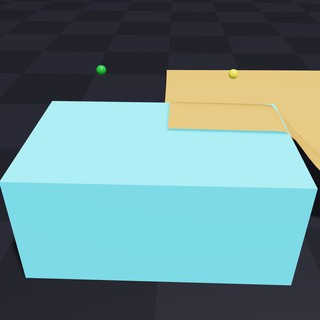
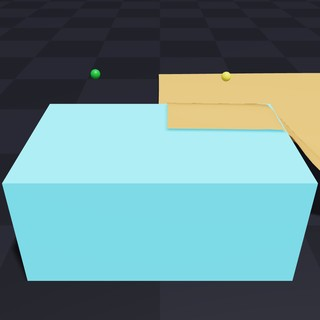
Fix review findings in the WebXR cloth teleop example
Address the bot review findings on the headset path and the test:

- Correct the head camera forward axis: stored head quats map the
  head-local frame to model space with local forward (0, 0, -1), so a
  level head now looks at the scene instead of the sky. Procedural
  head quats use the same convention.
- Request the local-floor reference space (falling back to local), so
  tracked hands sit at table height instead of under the ground.
- Document the secure-context requirement for WebXR and guide
  standalone headsets through adb reverse + localhost instead of a
  plain-http LAN address.
- Run the procedural choreography while no client has connected, so
  the default run matches the documented behavior.
- Frame the scene with the procedural head once instead of overriding
  the camera every frame, leaving orbit controls to the user; replay
  and connected-VR runs keep following the head.
- Strengthen the drag assertion with a touch witness
  (test_post_step) recorded while a hand proxy is within reach of the
  cloth; a hands-disabled control run now fails as expected.
- Reject malformed pose values (strings, ragged lists, nulls) instead
  of crashing the simulation on one bad POST.
- Record the targets the simulation actually used so replay
  reproduces the run, defaulting missing entries to sane poses.
- Flush the recording when the run loop exits, not only in test mode
  or every 100 frames.
- Drop the unused pinch detection from the client, protocol, and
[…]

diff --git a/newton/examples/cloth/example_cloth_vr_teleop.py b/newton/examples/cloth/example_cloth_vr_teleop.py
@@ -17,6 +17,10 @@
 # motion (also used in test mode), and the client page offers a mouse-driven
 # fallback. Sessions can be recorded to and replayed from ``.npz`` files.
 #
+# Headset note: WebXR requires a secure context, which a plain http:// LAN
+# address is not. From a standalone headset use adb (e.g.
+# ``adb reverse tcp:8091 tcp:8091``) and open ``http://localhost:8091/``.
+#
 # Command: python -m newton.examples cloth_vr_teleop [--vr-port 8091]
 #
 ###########################################################################
@@ -106,8 +110,15 @@ async function startXR() {
     return;
   }
   enterBtn.disabled = true;
-  status("VR session running");
-  const ref = await session.requestReferenceSpace("local");
+  let refSpaceName = "local-floor";
+  let ref;
+  try {
+    ref = await session.requestReferenceSpace(refSpaceName);
+  } catch (err) {
+    refSpaceName = "local";
+    ref = await session.requestReferenceSpace(refSpaceName);
+  }
+  status("VR session running (" + refSpaceName + ")");
   session.addEventListener("end", () => {
     session = null;
     enterBtn.disabled = false;
@@ -134,21 +145,11 @@ function handPose(frame, src, ref) {
   if (src.hand) {
     const wrist = frame.getJointPose(src.hand.get("wrist"), ref);
     if (!wrist) return null;
-    const out = { p: posOf(wrist.transform), q: quatOf(wrist.transform), pinch: false };
-    const tip = frame.getJointPose(src.hand.get("index-fingertip"), ref);
-    const thumb = frame.getJointPose(src.hand.get("thumb-tip"), ref);
-    if (tip && thumb) {
-      const dx = tip.transform.position.x - thumb.transform.position.x;
-      const dy = tip.transform.position.y - thumb.transform.position.y;
-      const dz = tip.transform.position.z - thumb.transform.position.z;
-      out.pinch = Math.sqrt(dx * dx + dy * dy + dz * dz) < 0.025;
-    }
-    return out;
+    return { p: posOf(wrist.transform), q: quatOf(wrist.transform) };
   }
   if (src.gripSpace) {
     const grip = frame.getPose(src.gripSpace, ref);
-    const pressed = src.gamepad && src.gamepad.buttons[0] && src.gamepad.buttons[0].pressed;
-    if (grip) return { p: posOf(grip.transform), q: quatOf(grip.transform), pinch: !!pressed };
+    if (grip) return { p: posOf(grip.transform), q: quatOf(grip.transform) };
   }
   return null;
 }
@@ -193,7 +194,7 @@ function drawPad() {
 setInterval(() => {
   if (session) return;  // in VR, the session loop drives the poses
   msg.head = HEAD_FALLBACK;
-  msg.hands = { right: { p: [handX, handH, -1.5 - handF], q: [0, 0, 0, 1], pinch: false } };
+  msg.hands = { right: { p: [handX, handH, -1.5 - handF], q: [0, 0, 0, 1] } };
   msg.t = performance.now() / 1000;
   post(msg);
   drawPad();
@@ -304,7 +305,10 @@ def _as_pos(entry):
     p = entry.get("p")
     if not isinstance(p, (list, tuple)) or len(p) != 3:
         return None
-    p = np.asarray(p, dtype=np.float32)
+    try:
+        p = np.asarray(p, dtype=np.float32)
+    except (ValueError, TypeError, OverflowError):
+        return None
     if not np.all(np.isfinite(p)) or np.linalg.norm(p) > _MAX_TRACKED_POS:
         return None
     return p
@@ -317,7 +321,10 @@ def _as_quat(entry):
     q = entry.get("q")
     if not isinstance(q, (list, tuple)) or len(q) != 4:
         return identity
-    q = np.asarray(q, dtype=np.float32)
+    try:
+        q = np.asarray(q, dtype=np.float32)
+    except (ValueError, TypeError, OverflowError):
+        return identity
     norm = float(np.linalg.norm(q))
     if not math.isfinite(norm) or norm < 1e-6:
         return identity
@@ -360,7 +367,7 @@ def _frame_from_message(message, origin_yup):
             return None
         p = _quat_rotate(_YUP_TO_ZUP_QUAT, p + origin_yup)
         q = _quat_mul(_YUP_TO_ZUP_QUAT, _as_quat(entry))
-        return p, q, bool(entry.get("pinch", False))
+        return p, q
 
     frame = {}
     head = _as_pos(message.get("head"))
@@ -405,7 +412,9 @@ class ProceduralPoseSource:
         look_at = np.array([0.0, 0.0, 0.55], dtype=np.float32)
         direction = look_at - head_p
         direction /= np.linalg.norm(direction)
-        head_q = _quat_between(np.array([0.0, 1.0, 0.0], dtype=np.float32), direction.astype(np.float32))
+        # Stored head quats map the head-local frame to model space, with the
+        # local forward direction at (0, 0, -1) (same convention as WebXR).
+        head_q = _quat_between(np.array([0.0, 0.0, -1.0], dtype=np.float32), direction.astype(np.float32))
 
         # Hand waypoints in model space; x is mirrored for the left hand.
         home = np.array([0.55, -0.10, 1.30], dtype=np.float32)
@@ -432,8 +441,8 @@ class ProceduralPoseSource:
 
         return {
             "head": (head_p, head_q),
-            "left": (left_p, np.array([0.0, 0.0, 0.0, 1.0], dtype=np.float32), False),
-            "right": (right_p, np.array([0.0, 0.0, 0.0, 1.0], dtype=np.float32), False),
+            "left": (left_p, np.array([0.0, 0.0, 0.0, 1.0], dtype=np.float32)),
+            "right": (right_p, np.array([0.0, 0.0, 0.0, 1.0], dtype=np.float32)),
         }
 
 
@@ -470,7 +479,6 @@ class ReplayPoseSource:
             frame[side] = (
                 np.asarray(self.data[f"{side}_p"][i], dtype=np.float32),
                 quat(f"{side}_q"),
-                False,
             )
         return frame
 
@@ -584,7 +592,10 @@ class Example:
         self._frame_idx = 0
         self._mode_name = "procedural"
         self._source = None
+        self._fallback_source = None
         self._server = None
+        self._cloth_touched = False
+        self._camera_framed = False
 
         origin_yup = np.asarray([float(v) for v in args.xr_origin.split(",")], dtype=np.float32)
         if args.replay:
@@ -594,8 +605,9 @@ class Example:
             server = _ACTIVE_SERVER
             if server is not None:
                 self._source = XRPoseSource(server, origin_yup)
+                self._fallback_source = ProceduralPoseSource(half_y)
                 self._server = server
-                self._mode_name = "vr (waiting for client)"
+                self._mode_name = "vr (procedural until client connects)"
             else:
                 self._source = ProceduralPoseSource(half_y)
                 self._mode_name = "procedural"
@@ -646,8 +658,14 @@ class Example:
         frame = self._source.next(self._frame_idx)
         if frame is not None:
             self._frame = frame
-            if self._mode_name.startswith("vr") and self._server is not None and self._server.packets:
+            if self._server is not None:
                 self._mode_name = "vr"
+        elif self._fallback_source is not None:
+            # No client connected yet: run the procedural choreography so the
+            # example matches its documented behavior from the first frame.
+            frame = self._fallback_source.next(self._frame_idx)
+            if frame is not None:
+                self._frame = frame
 
         targets = [self.home_left, self.home_right]
         if self._hands_enabled and self._frame is not None:
@@ -669,20 +687,28 @@ class Example:
     def _record_frame(self):
         if not self._record_path:
             return
-        frame = self._frame
+        frame = self._frame or {}
         self._rec["t"].append(self._frame_idx * self.frame_dt)
-        for key in ("head", "left", "right"):
-            entry = (frame or {}).get(key)
-            if entry is None:
-                if self._rec[f"{key}_p"]:
-                    self._rec[f"{key}_p"].append(self._rec[f"{key}_p"][-1])
-                    self._rec[f"{key}_q"].append(self._rec[f"{key}_q"][-1])
-                else:
-                    self._rec[f"{key}_p"].append(np.zeros(3, dtype=np.float32))
-                    self._rec[f"{key}_q"].append(np.array([0.0, 0.0, 0.0, 1.0], dtype=np.float32))
-            else:
-                self._rec[f"{key}_p"].append(np.asarray(entry[0], dtype=np.float32))
-                self._rec[f"{key}_q"].append(np.asarray(entry[1], dtype=np.float32))
+
+        head = frame.get("head")
+        if head is not None:
+            head_p, head_q = np.asarray(head[0], dtype=np.float32), np.asarray(head[1], dtype=np.float32)
+        elif self._rec["head_p"]:
+            head_p, head_q = self._rec["head_p"][-1], self._rec["head_q"][-1]
+        else:
+            head_p = np.array([0.0, -2.0, 1.8], dtype=np.float32)
+            head_q = np.array([0.0, 0.0, 0.0, 1.0], dtype=np.float32)
+        self._rec["head_p"].append(head_p)
+        self._rec["head_q"].append(head_q)
+
+        # Record the targets the simulation actually used (after the hands
+        # toggle and home fallback), so replay reproduces the run exactly.
+        identity = np.array([0.0, 0.0, 0.0, 1.0], dtype=np.float32)
+        for i, side in enumerate(("left", "right")):
+            self._rec[f"{side}_p"].append(self._targets_np[i].copy())
+            entry = frame.get(side)
+            self._rec[f"{side}_q"].append(np.asarray(entry[1], dtype=np.float32) if entry is not None else identity)
+
         if len(self._rec["t"]) % 100 == 0:
             self._flush_record()
 
@@ -698,10 +724,18 @@ class Example:
     def _apply_head_camera(self):
         if self._frame is None or "head" not in self._frame:
             return
+        follow = self._mode_name == "vr" or isinstance(self._source, ReplayPoseSource)
+        if not follow:
+            # Procedural and not-yet-connected runs frame the scene once and
+            # then leave the camera to the user (mouse/keyboard orbit).
+            if self._camera_framed:
+                return
+            self._camera_framed = True
         p, q = self._frame["head"]
-        # Model space is Z-up and the camera up axis follows the model, so the
-        # head's view direction maps onto the Z-up pitch/yaw conventions.
-        f = _quat_rotate(q, np.array([0.0, 1.0, 0.0], dtype=np.float32))
+        # Stored quats map the head-local frame to model space with local
+        # forward (0, 0, -1); model space is Z-up and the viewer camera up
+        # axis follows the model, so yaw/pitch follow the Z-up conventions.
+        f = _quat_rotate(q, np.array([0.0, 0.0, -1.0], dtype=np.float32))
         norm = float(np.linalg.norm(f))
         if norm < 1e-6:
             return
@@ -709,6 +743,19 @@ class Example:
         yaw = math.degrees(math.atan2(float(f[1]), float(f[0])))
         pitch = math.degrees(math.asin(max(-1.0, min(1.0, float(f[2])))))
         self.viewer.set_camera(wp.vec3(float(p[0]), float(p[1]), float(p[2])), pitch, yaw)
+
+    def test_post_step(self):
+        # Witness that a hand proxy actually reached the cloth; combined with
+        # the lateral-displacement check in test_final this proves the drag.
+        if self._cloth_touched:
+            return
+        particle_q = self.state_0.particle_q.numpy()
+        body_q = self.state_0.body_q.numpy()
+        for body in (self.left_body, self.right_body):
+            center = body_q[body][:3]
+            if float(np.linalg.norm(particle_q - center, axis=1).min()) < 0.15:
+                self._cloth_touched = True
+                return
 
     def test_final(self):
         self._flush_record()
@@ -726,9 +773,12 @@ class Example:
             lambda q, qd: newton.math.vec_inside_limits(q, lower, upper),
         )
 
-        # The hand proxies must have interacted with the cloth. Lateral (x-y)
-        # displacement ignores the initial free-fall and drape onto the table,
-        # which is mostly vertical, so particles moving sideways were dragged.
+        # The hand proxies must have interacted with the cloth. test_post_step
+        # witnesses a hand proxy actually reaching the cloth (the overhang
+        # flaps sway on their own, so motion alone is not proof of a drag);
+        # the lateral displacement check confirms the sheet actually moved.
+        if not self._cloth_touched:
+            raise ValueError("Hand proxies never reached the cloth during the test run")
         particle_q = self.state_0.particle_q.numpy()
         lateral = np.linalg.norm(particle_q[:, 0:2] - self.initial_particle_q[:, 0:2], axis=1)
         moved = float(np.mean(lateral > 0.03))
@@ -765,7 +815,11 @@ class Example:
         parser.add_argument("--height", type=int, default=40, help="Cloth resolution in y.")
         parser.add_argument("--max-hand-speed", type=float, default=2.5, help="Maximum tracked hand proxy speed [m/s].")
         parser.add_argument(
-            "--vr-host", type=str, default="127.0.0.1", help="Host address for the WebXR client server."
+            "--vr-host",
+            type=str,
+            default="127.0.0.1",
+            help="Host address for the WebXR client server. For standalone headsets use 0.0.0.0 together "
+            "with 'adb reverse tcp:<port> tcp:<port>' and open http://localhost:<port>/ on the headset.",
         )
         parser.add_argument("--vr-port", type=int, default=8091, help="Port for the WebXR client server.")
         parser.add_argument(
@@ -797,12 +851,18 @@ if __name__ == "__main__":
             host, port = server.server_address[:2]
             print(f"WebXR client page: http://{host}:{port}/")
             if host in ("0.0.0.0", "::"):
-                print("Open this page from the headset browser using this machine's LAN address.")
+                print(
+                    f"Standalone headsets: run 'adb reverse tcp:{port} tcp:{port}' on this machine, then open "
+                    f"http://localhost:{port}/ in the headset browser (WebXR requires a secure context; "
+                    "plain http:// LAN addresses do not provide one)."
+                )
             _ACTIVE_SERVER = server
         except OSError as err:
             print(f"Warning: could not start the WebXR client server ({err}); using procedural input")
 
-    newton.examples.run(Example(viewer, args), args)
+    example = Example(viewer, args)
+    newton.examples.run(example, args)
+    example._flush_record()
 
     if server is not None:
         server.stop()
